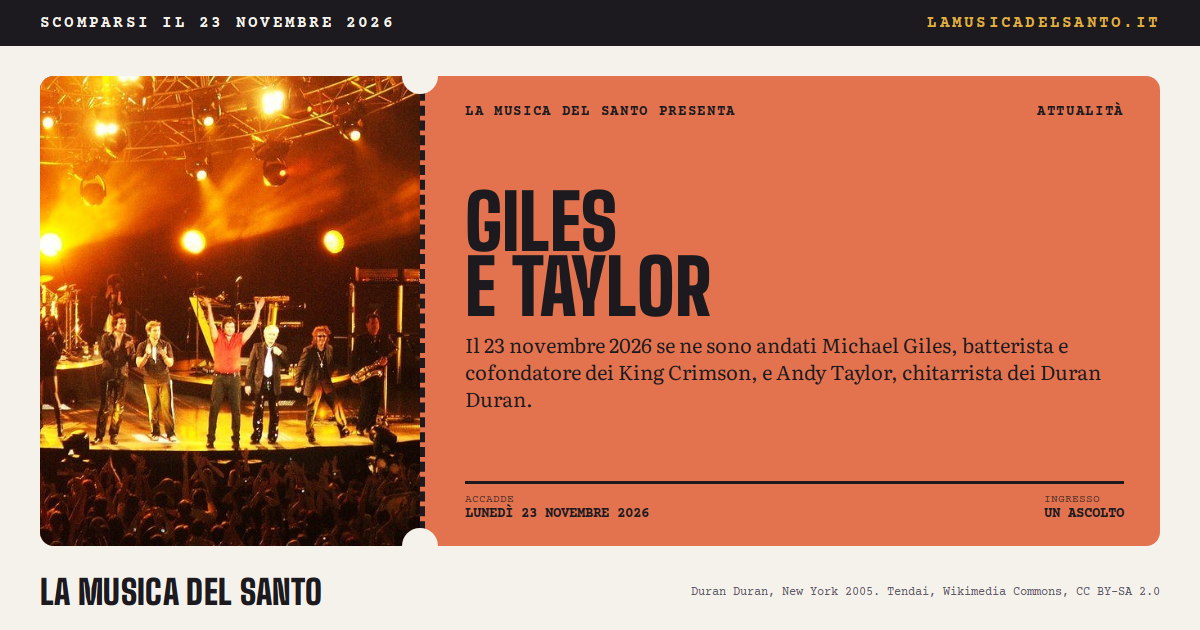
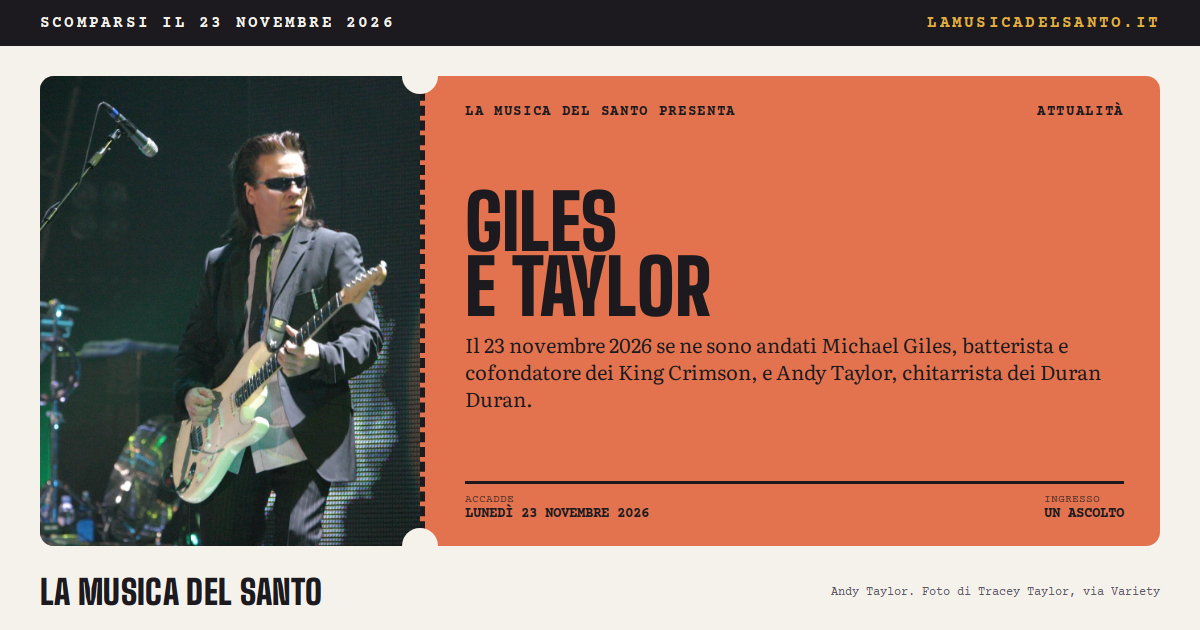
Immagini e grafiche preparate dall'azione automatica

Changed region(s): [[0.0308, 0.1206, 0.37, 0.8746], [0.5858, 0.9349, 0.9558, 0.9651]]

diff --git a/scripts/immagini/michael-giles-andy-taylor.esito.md b/scripts/immagini/michael-giles-andy-taylor.esito.md
@@ -2,6 +2,6 @@
 
 | File | Esito |
 |---|---|
-| `public/images/articoli/michael-giles-andy-taylor/duran-duran-new-york-2005.jpg` | ok, 1024×574 px, 142 KB |
+| `public/images/articoli/michael-giles-andy-taylor/power-station-1985.jpg` | ok, 915×650 px, 99 KB |
 
 Grafiche da rigenerare: scripts/social/dati/michael-giles-andy-taylor.json
